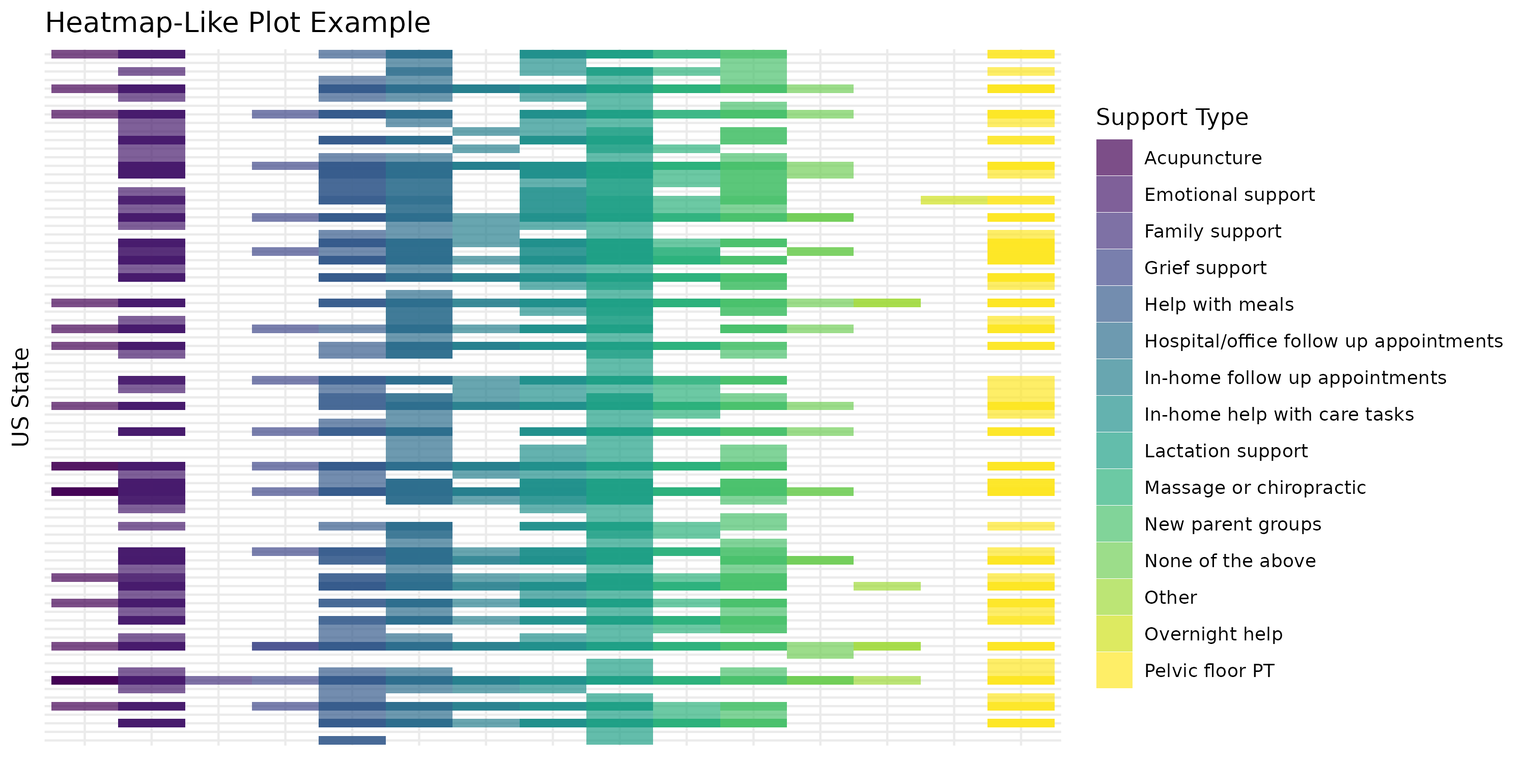
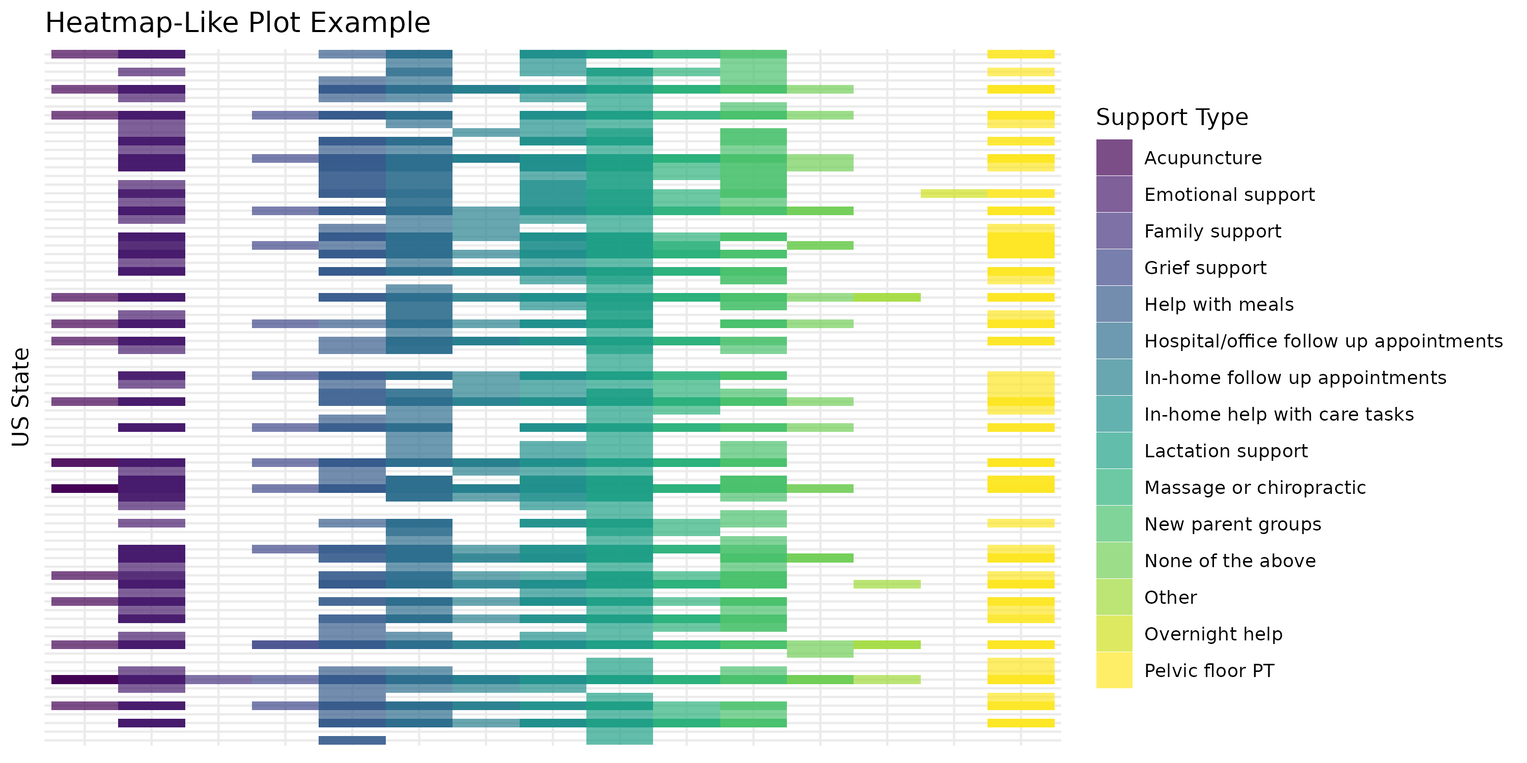
Complete cleaning first_state

diff --git a/memo/memo.md b/memo/memo.md
@@ -36,11 +36,11 @@ Postpartum <- read.csv("Postpartum.csv")
 ### Step 1: Cleaning `age`
 
 ``` r
-Postpartum <- Postpartum %>% 
-  mutate(first_age = substr(age, start = 1, stop = 2)) %>% 
-  mutate(first_age = if_else(first_age == "On", "35", first_age)) %>% 
-  mutate(first_age = as.numeric(first_age)) %>% 
-arrange(first_age) %>% 
+Postpartum <- Postpartum |> 
+  mutate(first_age = substr(age, start = 1, stop = 2)) |> 
+  mutate(first_age = if_else(first_age == "On", "35", first_age)) |> 
+  mutate(first_age = as.numeric(first_age)) |> 
+arrange(first_age) |> 
 
 relocate(first_age, .after = age)
 ```
@@ -64,17 +64,70 @@ Postpartum <- Postpartum |>
 #using stringr package  
 
   filter(state != "United States",
+         state != "United states",
          state != "US",
          state != "USA")
 ```
 
 ``` r
-#Postpartum <- Postpartum %>% 
-#  mutate(first_state = sub("(,|and|1|/|-|\\(|&)", "", state)) %>% 
-#arrange(first_state) %>% 
+Postpartum <- Postpartum |> 
+  mutate(first_state = sub("(,|and|1|/|-|\\(|&).*", "", state)) |>
+arrange(first_state) |> 
 
-#relocate(first_state, .after = state)
+relocate(first_state, .after = state)
+
+Postpartum <- Postpartum |>
+  mutate(first_state = str_replace(first_state, "Arizona ", "Arizona")) |>
+  mutate(first_state = str_replace(first_state, "Arkansas ", "Arkansas")) |>
+  mutate(first_state = str_replace(first_state, "California ", "California")) |>
+  mutate(first_state = str_replace(first_state, "california ", "California")) |>
+  mutate(first_state = str_replace(first_state, "california", "California")) |>
+  mutate(first_state = str_replace(first_state, "Colorado ", "Colorado")) |>
+  mutate(first_state = str_replace(first_state, "First", "Tennessee")) |>
+  mutate(first_state = str_replace(first_state, "Indiana ", "Indiana")) |>
+  mutate(first_state = str_replace(first_state, "Kentcky", "Kentucky")) |>
+  mutate(first_state = str_replace(first_state, "Massachusetts ", "Massachusetts")) |>
+  mutate(first_state = str_replace(first_state, "Massachusettsechusetts", "Massachusetts")) |>
+  mutate(first_state = str_replace(first_state, "Michigan ", "Michigan")) |>
+  mutate(first_state = str_replace(first_state, "Minesotta", "Minnesota")) |>
+  mutate(first_state = str_replace(first_state, "Minnesotta", "Minnesota")) |>
+  mutate(first_state = str_replace(first_state, "New York ", "New York")) |>
+  mutate(first_state = str_replace(first_state, "New york", "New York")) |>
+  mutate(first_state = str_replace(first_state, "North carolina", "North Carolina")) |>
+  mutate(first_state = str_replace(first_state, "Oregon ", "Oregon")) |>
+  mutate(first_state = str_replace(first_state, "Rhode isl", "Rhode Island")) |>
+  mutate(first_state = str_replace(first_state, "Rhode Isl", "Rhode Island")) |>
+  mutate(first_state = str_replace(first_state, "Rhode Islandand", "Rhode Island")) |>
+  mutate(first_state = str_replace(first_state, "Texas ", "Texas")) |>
+  mutate(first_state = str_replace(first_state, "Washington ", "Washington")) |>
+  mutate(first_state = str_replace(first_state, "New jersey", "New Jersey")) |>
+  mutate(first_state = str_replace(first_state, "wisconsin", "Wisconsin")) |>
+  mutate(first_state = str_replace(first_state, "virginia", "Virginia")) |>
+  mutate(first_state = str_replace(first_state, "Virginia ", "Virginia")) |>
+  mutate(first_state = str_replace(first_state, "Maryl", "Maryland")) |>
+  mutate(first_state = str_replace(first_state, "North dakota", "North Dakota")) |>
+  mutate(first_state = str_replace(first_state, "pennsylvania", "Pennsylvania")) 
+  
+ unique(Postpartum$first_state)
 ```
+
+    ##  [1] "Alabama"              "Alaska"               "Arizona"             
+    ##  [4] "Arkansas"             "California"           "Colorado"            
+    ##  [7] "Connecticut"          "Delaware"             "District of Columbia"
+    ## [10] "Tennessee "           "Florida"              "Georgia"             
+    ## [13] "Hawaii"               "Illinois"             "Indiana"             
+    ## [16] "Iowa"                 "Kansas"               "Kentucky"            
+    ## [19] "Louisiana"            "Maine"                "Maryland"            
+    ## [22] "Massachusetts"        "Michigan"             "Minnesota"           
+    ## [25] "Mississippi"          "Missouri"             "Nebraska"            
+    ## [28] "Nevada"               "New Hampshire"        "New Jersey"          
+    ## [31] "New Mexico"           "New York"             "North Carolina"      
+    ## [34] "North Dakota"         "Ohio"                 "Oklahoma"            
+    ## [37] "Oregon"               "Pennsylvania"         "Rhode Island"        
+    ## [40] "South Carolina"       "South Dakota"         "Tennessee"           
+    ## [43] "Texas"                "Utah"                 "Vermont"             
+    ## [46] "Virginia"             "Washington"           "West Virginia"       
+    ## [49] "Wisconsin"
 
 ### Step 3: Cleaning `support_type`
 
@@ -92,70 +145,70 @@ Postpartum <- Postpartum |>
   unique(Postpartum$support_type)
 ```
 
-    ##  [1] "Lactation support"                                                                                                                                   
-    ##  [2] " Emotional support"                                                                                                                                  
-    ##  [3] " Hospital or office based wellness services and postpartum follow up appointments"                                                                   
-    ##  [4] " Community meal train or other meal service"                                                                                                         
-    ##  [5] " New parent groups - in person"                                                                                                                      
-    ##  [6] " New parent groups - online"                                                                                                                         
+    ##  [1] "Community meal train or other meal service"                                                                                                          
+    ##  [2] "Lactation support"                                                                                                                                   
+    ##  [3] " Community meal train or other meal service"                                                                                                         
+    ##  [4] "In-home help with care tasks"                                                                                                                        
+    ##  [5] " Hospital or office based wellness services and postpartum follow up appointments"                                                                   
+    ##  [6] "Emotional support"                                                                                                                                   
     ##  [7] " In-home help with care tasks"                                                                                                                       
-    ##  [8] " Massage or chiropractic"                                                                                                                            
-    ##  [9] "Hospital or office based wellness services and postpartum follow up appointments"                                                                    
-    ## [10] " Pelvic floor rehabilitation"                                                                                                                        
-    ## [11] "Emotional support"                                                                                                                                   
-    ## [12] "None of the above"                                                                                                                                   
+    ##  [8] " New parent groups - in person"                                                                                                                      
+    ##  [9] " Massage or chiropractic"                                                                                                                            
+    ## [10] " Emotional support"                                                                                                                                  
+    ## [11] " New parent groups - online"                                                                                                                         
+    ## [12] " Pelvic floor rehabilitation"                                                                                                                        
     ## [13] " In-home wellness services and postpartum follow up appointments"                                                                                    
-    ## [14] " 1 PP appointment at 6 weeks"                                                                                                                        
-    ## [15] "In-home help with care tasks"                                                                                                                        
-    ## [16] ""                                                                                                                                                    
-    ## [17] " Besides my required postpartum checkup and family care"                                                                                             
-    ## [18] " I didn't really receive support. I know my pediatrician has lactation services but I didn't need."                                                  
-    ## [19] "Community meal train or other meal service"                                                                                                          
-    ## [20] " Grief support"                                                                                                                                      
-    ## [21] " Baby was in NICU so we also had access to a social worker and classes with fellow nicu parents on development/feeding/etc"                          
-    ## [22] " Acupuncture"                                                                                                                                        
-    ## [23] " 6 week follow up pp with doctor"                                                                                                                    
-    ## [24] " Family"                                                                                                                                             
-    ## [25] " Lactation support was VERY hard to access"                                                                                                          
-    ## [26] "New parent groups - online"                                                                                                                          
-    ## [27] "Pelvic floor rehabilitation"                                                                                                                         
-    ## [28] " Except for my second  was born March 2020. I had no follow up"                                                                                      
-    ## [29] " Lactation support pre-covid. Post covid nothing in hospital"                                                                                        
-    ## [30] " Home visiting (Maine Families and public health nursing)"                                                                                           
-    ## [31] " As a note"                                                                                                                                          
-    ## [32] " any supports I had access to I had to find myself."                                                                                                 
-    ## [33] " My partner was incredibly helpful. He handled all of the emotional support and meal and house prep and cleaning. However"                           
-    ## [34] " we didn’t have anyone else and I often wished we had someone to hold the both of us while we bonded with our baby."                                 
-    ## [35] " I had access to lactation/new parent group but didn’t have the knowledge to go to them"                                                             
-    ## [36] " One postpartum appointment with my OBGYN"                                                                                                           
-    ## [37] " Postpartum doula"                                                                                                                                   
-    ## [38] " Virtual postpartum follow up visits due to COVID"                                                                                                   
-    ## [39] " I didn’t attend any of the new parent groups"                                                                                                       
-    ## [40] " but the second hospital I delivered at has a robust new parent program"                                                                             
-    ## [41] " I probably could have had access to some of the other things on this list but didn't look into it"                                                  
-    ## [42] "Gave birth in 2020. Everything I thought I’d have access to was shut down"                                                                           
-    ## [43] " Ovia Parenting App coaches"                                                                                                                         
-    ## [44] " Lactation support was virtual only due to pandemic"                                                                                                 
-    ## [45] " Some of these were offered but not helpful. Saw a behaviorist bc my dad died right before birth but they just said I “seemed fine” and were no help"
-    ## [46] " In—home baby education"                                                                                                                             
-    ## [47] "Yes there was a postpartum follow up but didnt seem like she did nuch other than repeat what she was reading off a pamphlet."                        
-    ## [48] " Mommy and me yoga and classes"                                                                                                                      
-    ## [49] " Had to seek out lactation help on my own"                                                                                                           
-    ## [50] " the process wasn’t easy or clear. After my 6-week checkup"                                                                                          
-    ## [51] " most of my concerns were ignored by my ob."                                                                                                         
-    ## [52] " None of the above"                                                                                                                                  
-    ## [53] " Therapy (for PPD with second kid)"                                                                                                                  
-    ## [54] " Mental health therapy"                                                                                                                              
-    ## [55] " Therapist but not specializing in postpartum concerns"                                                                                              
-    ## [56] " Ped PT and dentist for tie release + torticollis (for LO but her care is critical to my well being + BF journey)"                                   
-    ## [57] " Postpartum doula and a night doula"                                                                                                                 
-    ## [58] " Therapy for Anxiety"                                                                                                                                
-    ## [59] " Stay at home spouse"                                                                                                                                
-    ## [60] " 1x nurse check-in over phone (through hospital)"                                                                                                    
-    ## [61] " follow-up appointment with midwife; overnight doula (1 night per week)"                                                                             
-    ## [62] " Nighttime support night nurse"                                                                                                                      
-    ## [63] " Doula. Also"                                                                                                                                        
-    ## [64] " I probably had access to pelvic floor therapy but didn’t know about it in order to access it."
+    ## [14] "New parent groups - online"                                                                                                                          
+    ## [15] " 1 PP appointment at 6 weeks"                                                                                                                        
+    ## [16] " Grief support"                                                                                                                                      
+    ## [17] " Acupuncture"                                                                                                                                        
+    ## [18] " Doula. Also"                                                                                                                                        
+    ## [19] " I probably had access to pelvic floor therapy but didn’t know about it in order to access it."                                                      
+    ## [20] "Hospital or office based wellness services and postpartum follow up appointments"                                                                    
+    ## [21] "None of the above"                                                                                                                                   
+    ## [22] " Baby was in NICU so we also had access to a social worker and classes with fellow nicu parents on development/feeding/etc"                          
+    ## [23] " Family"                                                                                                                                             
+    ## [24] "Pelvic floor rehabilitation"                                                                                                                         
+    ## [25] " Lactation support pre-covid. Post covid nothing in hospital"                                                                                        
+    ## [26] " I probably could have had access to some of the other things on this list but didn't look into it"                                                  
+    ## [27] " Ovia Parenting App coaches"                                                                                                                         
+    ## [28] "Yes there was a postpartum follow up but didnt seem like she did nuch other than repeat what she was reading off a pamphlet."                        
+    ## [29] " Had to seek out lactation help on my own"                                                                                                           
+    ## [30] " the process wasn’t easy or clear. After my 6-week checkup"                                                                                          
+    ## [31] " most of my concerns were ignored by my ob."                                                                                                         
+    ## [32] " Postpartum doula and a night doula"                                                                                                                 
+    ## [33] " None of the above"                                                                                                                                  
+    ## [34] " Therapy (for PPD with second kid)"                                                                                                                  
+    ## [35] " Ped PT and dentist for tie release + torticollis (for LO but her care is critical to my well being + BF journey)"                                   
+    ## [36] " Stay at home spouse"                                                                                                                                
+    ## [37] " Virtual postpartum follow up visits due to COVID"                                                                                                   
+    ## [38] " In—home baby education"                                                                                                                             
+    ## [39] " As a note"                                                                                                                                          
+    ## [40] " any supports I had access to I had to find myself."                                                                                                 
+    ## [41] " I had access to lactation/new parent group but didn’t have the knowledge to go to them"                                                             
+    ## [42] " Home visiting (Maine Families and public health nursing)"                                                                                           
+    ## [43] " follow-up appointment with midwife; overnight doula (1 night per week)"                                                                             
+    ## [44] " Besides my required postpartum checkup and family care"                                                                                             
+    ## [45] " I didn't really receive support. I know my pediatrician has lactation services but I didn't need."                                                  
+    ## [46] " Therapy for Anxiety"                                                                                                                                
+    ## [47] " 6 week follow up pp with doctor"                                                                                                                    
+    ## [48] "Gave birth in 2020. Everything I thought I’d have access to was shut down"                                                                           
+    ## [49] " Lactation support was VERY hard to access"                                                                                                          
+    ## [50] " Postpartum doula"                                                                                                                                   
+    ## [51] " Mental health therapy"                                                                                                                              
+    ## [52] " Therapist but not specializing in postpartum concerns"                                                                                              
+    ## [53] " 1x nurse check-in over phone (through hospital)"                                                                                                    
+    ## [54] " My partner was incredibly helpful. He handled all of the emotional support and meal and house prep and cleaning. However"                           
+    ## [55] " we didn’t have anyone else and I often wished we had someone to hold the both of us while we bonded with our baby."                                 
+    ## [56] " Mommy and me yoga and classes"                                                                                                                      
+    ## [57] " Some of these were offered but not helpful. Saw a behaviorist bc my dad died right before birth but they just said I “seemed fine” and were no help"
+    ## [58] " I didn’t attend any of the new parent groups"                                                                                                       
+    ## [59] " but the second hospital I delivered at has a robust new parent program"                                                                             
+    ## [60] " Nighttime support night nurse"                                                                                                                      
+    ## [61] ""                                                                                                                                                    
+    ## [62] " Except for my second  was born March 2020. I had no follow up"                                                                                      
+    ## [63] " One postpartum appointment with my OBGYN"                                                                                                           
+    ## [64] " Lactation support was virtual only due to pandemic"
 
 ``` r
 Postpartum <- Postpartum|>
@@ -230,45 +283,45 @@ Postpartum <- Postpartum|>
 unique(Postpartum$support_type)
 ```
 
-    ##  [1] "Lactation support"                     
-    ##  [2] "Emotional support"                     
-    ##  [3] "Hospital/office follow up appointments"
-    ##  [4] "Help with meals"                       
-    ##  [5] "New parent groups"                     
-    ##  [6] "In-home help with care tasks"          
+    ##  [1] "Help with meals"                       
+    ##  [2] "Lactation support"                     
+    ##  [3] "In-home help with care tasks"          
+    ##  [4] "Hospital/office follow up appointments"
+    ##  [5] "Emotional support"                     
+    ##  [6] "New parent groups"                     
     ##  [7] "Massage or chiropractic"               
     ##  [8] "Pelvic floor PT"                       
-    ##  [9] "None of the above"                     
-    ## [10] "In-home follow up appointments"        
-    ## [11] "NA"                                    
-    ## [12] "Grief support"                         
-    ## [13] "Acupuncture"                           
-    ## [14] "Family support"                        
-    ## [15] "Other"                                 
+    ##  [9] "In-home follow up appointments"        
+    ## [10] "Grief support"                         
+    ## [11] "Acupuncture"                           
+    ## [12] "None of the above"                     
+    ## [13] "Family support"                        
+    ## [14] "Other"                                 
+    ## [15] "NA"                                    
     ## [16] "Overnight help"
 
 ### Step 4: Cleaning `birth_location`
 
 ``` r
-Postpartum <- Postpartum %>% 
-  mutate(birth_location = ifelse(birth_location == "Hospital, Was supposed to go to birth center", "Hospital", birth_location)) %>%  
-  mutate(birth_location = ifelse(birth_location == "At home", "Non-Hospital", birth_location)) %>% 
-  mutate(birth_location = ifelse(birth_location == "Birthing Center attached to hospital", "Non-Hospital", birth_location)) %>% 
-  mutate(birth_location = ifelse(birth_location == "Free standing birth center", "Non-Hospital", birth_location)) %>% 
-  mutate(birth_location = ifelse(birth_location == "At home, I’m our car in an empty church parking lot", "Non-Hospital", birth_location)) %>% 
-  mutate(birth_location = ifelse(birth_location == "Began at a free standing birth center, had to transfer to a midwife center at a hospital", "Hospital", birth_location)) %>% 
-  mutate(birth_location = ifelse(birth_location == "Birthing center attached to a hospital", "Non-Hospital", birth_location)) %>% 
-  mutate(birth_location = ifelse(birth_location == "Planned home birth, transferred to hospital", "Hospital", birth_location)) %>% 
-  mutate(birth_location = ifelse(birth_location == "Free standing birth center, At home", "Non-Hospital", birth_location)) %>% 
-  mutate(birth_location = ifelse(birth_location == "Hospital, Homebirth transfer to hospital csection", "Hospital", birth_location)) %>% 
-  mutate(birth_location = ifelse(birth_location == "Natural birthing center attached to hospital", "Non-Hospital", birth_location)) %>% 
-  mutate(birth_location = ifelse(birth_location == "Hospital based birth center (across a sky bridge)", "Non-Hospital", birth_location)) %>%
-  mutate(birth_location = ifelse(birth_location == "Hospital, Hospital x2", "Hospital", birth_location)) %>% 
-  mutate(birth_location = ifelse(birth_location == "Hospital, began care at birth center all 3 times & transferred", "Hospital", birth_location)) %>%
-  mutate(birth_location = ifelse(birth_location == "Birthing center within a hospital", "Hospital", birth_location)) %>% 
-  mutate(birth_location = ifelse(birth_location == "Hospital, Free standing birth center", "NA", birth_location)) %>% 
-  mutate(birth_location = ifelse(birth_location == "Hospital, At home", "NA", birth_location)) %>% 
-  mutate(birth_location = ifelse(birth_location ==  "Hospital, Birth center room in the hospital", "NA", birth_location)) %>% 
+Postpartum <- Postpartum |>
+  mutate(birth_location = ifelse(birth_location == "Hospital, Was supposed to go to birth center", "Hospital", birth_location)) |>  
+  mutate(birth_location = ifelse(birth_location == "At home", "Non-Hospital", birth_location)) |>
+  mutate(birth_location = ifelse(birth_location == "Birthing Center attached to hospital", "Non-Hospital", birth_location)) |> 
+  mutate(birth_location = ifelse(birth_location == "Free standing birth center", "Non-Hospital", birth_location)) |> 
+  mutate(birth_location = ifelse(birth_location == "At home, I’m our car in an empty church parking lot", "Non-Hospital", birth_location)) |> 
+  mutate(birth_location = ifelse(birth_location == "Began at a free standing birth center, had to transfer to a midwife center at a hospital", "Hospital", birth_location)) |> 
+  mutate(birth_location = ifelse(birth_location == "Birthing center attached to a hospital", "Non-Hospital", birth_location)) |> 
+  mutate(birth_location = ifelse(birth_location == "Planned home birth, transferred to hospital", "Hospital", birth_location)) |> 
+  mutate(birth_location = ifelse(birth_location == "Free standing birth center, At home", "Non-Hospital", birth_location)) |> 
+  mutate(birth_location = ifelse(birth_location == "Hospital, Homebirth transfer to hospital csection", "Hospital", birth_location)) |> 
+  mutate(birth_location = ifelse(birth_location == "Natural birthing center attached to hospital", "Non-Hospital", birth_location)) |> 
+  mutate(birth_location = ifelse(birth_location == "Hospital based birth center (across a sky bridge)", "Non-Hospital", birth_location)) |>
+  mutate(birth_location = ifelse(birth_location == "Hospital, Hospital x2", "Hospital", birth_location)) |>
+  mutate(birth_location = ifelse(birth_location == "Hospital, began care at birth center all 3 times & transferred", "Hospital", birth_location)) |>
+  mutate(birth_location = ifelse(birth_location == "Birthing center within a hospital", "Hospital", birth_location)) |> 
+  mutate(birth_location = ifelse(birth_location == "Hospital, Free standing birth center", "NA", birth_location)) |> 
+  mutate(birth_location = ifelse(birth_location == "Hospital, At home", "NA", birth_location)) |>
+  mutate(birth_location = ifelse(birth_location ==  "Hospital, Birth center room in the hospital", "NA", birth_location)) |>
   mutate(birth_location = ifelse(birth_location ==  "Hospital, Car", "NA", birth_location))
 ```
 
@@ -339,8 +392,8 @@ data cleaning steps specific to a particular plot
 
 ``` r
 p1 <- Postpartum |>
-  filter(support_type != "NA") %>%
-  filter(support_type != "Lactation support, New parent groups - in person") %>%
+  filter(support_type != "NA") |>
+  filter(support_type != "Lactation support, New parent groups - in person") |>
   ggplot(mapping = aes(x = fct_infreq(support_type), fill = support_type)) +
    geom_bar() +
   #  aes(pattern = birth_location, fill = birth_location, pattern_fill = birth_location),
@@ -429,6 +482,18 @@ cost_not_applicable <- c("Did not know post partum services other than the follo
                                      # cost_factor %in% cost_not_a_factor ~ "No",
                                      # cost_factor %in% cost_not_applicable ~ "N/A",
        #   TRUE ~ cost_factor))
+```
+
+### Plot Y
+
+``` r
+# try mutating the group of care types into baseline/good, better, best with | between each care type
+
+#baseline <- c("Lactation support", "Pelvic floor rehabilitation",  "Emotional support",  "Hospital or office based wellness services and postpartum follow up appointments")
+
+#better <- c("")
+
+#best <- c("")
 ```
 
 #### Final Plot 1
